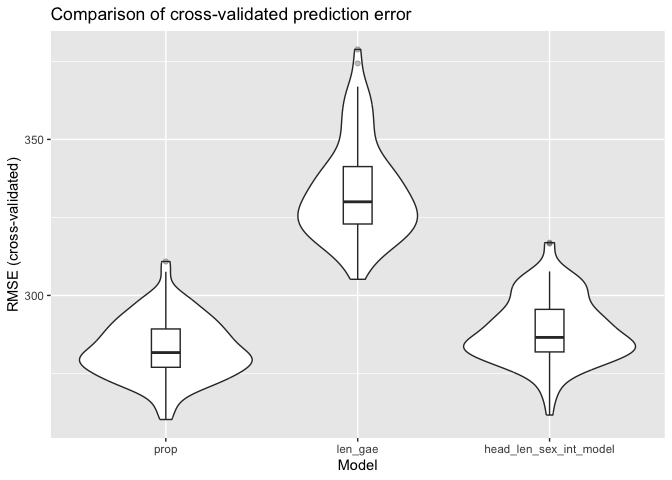
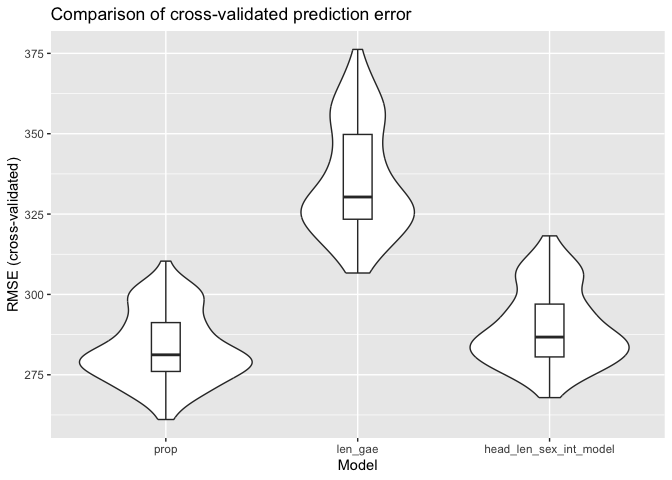
Add regression model discription

diff --git a/p8105_hw6_jt3649.md b/p8105_hw6_jt3649.md
@@ -237,7 +237,6 @@ this pattern varies by city.
 ``` r
 library(p8105.datasets)
 data("weather_df")
-set.seed(1234)
 # keep only rows with complete data
 weather = weather_df |>
   drop_na(tmax, tmin, prcp)
@@ -246,6 +245,7 @@ weather = weather_df |>
 #### Bootstrap resamples and estimates
 
 ``` r
+set.seed(1234)
 weather_boot = weather |>
   modelr::bootstrap(n = 5000)
 # fit the regression in each bootstrap sample
@@ -399,6 +399,17 @@ birthweight_df = birthweight_df |>
 
 #### Proposed regression model
 
+The proposed model was based on a hypothesized structure for the
+biological and maternal factors that underlie birthweight, such as baby
+sex, head circumference, etc..
+
+The modeling process involved selecting predictors based on theoretical
+expectations about birthweight determinants. The relationship between
+predictors and outcome is compared through fitting in a multiple linear
+regression model. The model accuracy is accessed through residual
+diagnostics. The proposed model is also compared to two other models
+using cross-validated prediction error.
+
 ``` r
 # outcome = bwt
 # predictors: baby sex, head circumference, length, gestational age, pre-pregnancy, BMI, smoking, weight gain
@@ -462,6 +473,7 @@ bw_head_len_sex_int_model =
 #### Cross validation
 
 ``` r
+set.seed(1234)
 cv_df = 
   crossv_mc(birthweight_df, 100) |>
   mutate(
@@ -502,12 +514,12 @@ cv_df |>
 ```
 
     ##    rmse_prop      rmse_len_gae   rmse_head_len_sex_int_model
-    ##  Min.   :260.2   Min.   :305.2   Min.   :261.7              
-    ##  1st Qu.:277.0   1st Qu.:322.9   1st Qu.:281.9              
-    ##  Median :281.7   Median :330.0   Median :286.5              
-    ##  Mean   :282.8   Mean   :333.2   Mean   :288.8              
-    ##  3rd Qu.:289.2   3rd Qu.:341.3   3rd Qu.:295.5              
-    ##  Max.   :310.9   Max.   :378.8   Max.   :316.9
+    ##  Min.   :261.1   Min.   :306.7   Min.   :267.9              
+    ##  1st Qu.:276.0   1st Qu.:323.4   1st Qu.:280.6              
+    ##  Median :281.2   Median :330.3   Median :286.7              
+    ##  Mean   :283.4   Mean   :335.5   Mean   :289.7              
+    ##  3rd Qu.:291.2   3rd Qu.:349.8   3rd Qu.:297.0              
+    ##  Max.   :310.4   Max.   :376.2   Max.   :318.2
 
 #### Plot and compare cross validation RMSEs
 
@@ -527,10 +539,20 @@ cv_summary = cv_long |>
   group_by(model) |>
   summarize(
     mean_rmse = mean(rmse), 
-    sd_rmse = sd(rmse)
-  ) |>
-  knitr::kable()
+    sd_rmse = sd(rmse),
+    median_rmse = median(rmse)
+  )
 
+knitr::kable(cv_summary)
+```
+
+| model                  | mean_rmse |  sd_rmse | median_rmse |
+|:-----------------------|----------:|---------:|------------:|
+| prop                   |  283.4432 | 10.83544 |    281.2097 |
+| len_gae                |  335.4731 | 16.98099 |    330.3114 |
+| head_len_sex_int_model |  289.6828 | 11.69083 |    286.7302 |
+
+``` r
 cv_long |>
   ggplot(aes(x = model, y = rmse)) +
   geom_violin() + 
@@ -543,3 +565,12 @@ cv_long |>
 ```
 
 ![](p8105_hw6_jt3649_files/figure-gfm/compare%20cv-1.png)<!-- -->
+
+The violin plots shows that the proposed model has the smallest mean
+RMSE (283.443) and median RMSE (281.21). The entire distribution is
+shifted downward relative to the two other models (main effect model and
+interaction model). The small RMSE indicates better predictive accuracy
+of the proposed model. Among the three, the main effect (len + gae)
+model has the highest mean and median RMSE, and the entire distribution
+is higher. This implies worse performance on predicting birthweight
+outcome.
